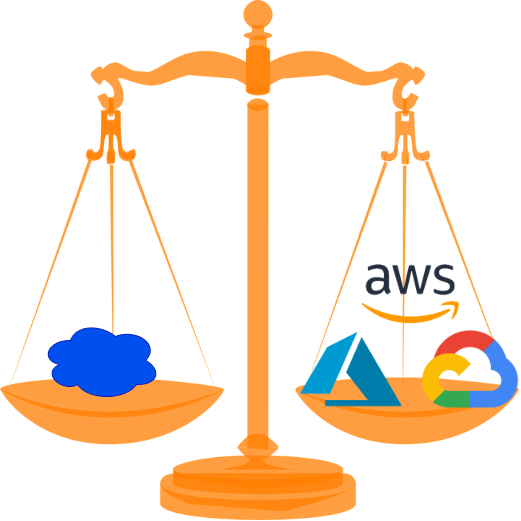
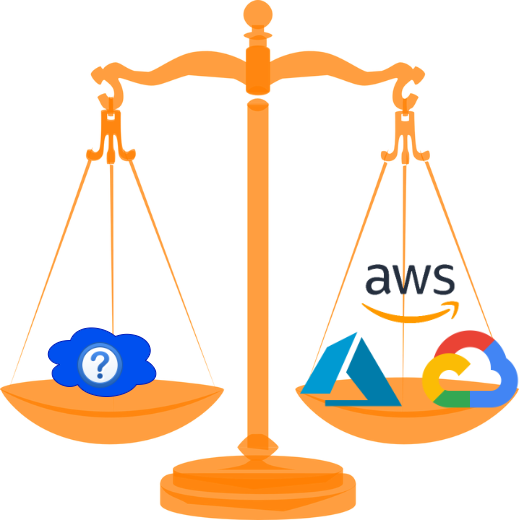
Add Proper Article Images to Home Page

Changed region(s): [[0.1228, 0.6449, 0.2457, 0.7678]]

diff --git a/index.html b/index.html
@@ -63,7 +63,7 @@ height: 100%;
       </div>
      <div class="image">
         <img
-          src="{{ site.baseurl }}/images/supported-clouds.png"
+          src="{{ site.baseurl }}/images/which_cloud_provider.png"
           alt="choice"
           class="editable"
         />
@@ -93,7 +93,7 @@ height: 100%;
       </div>
       <div class="image">
         <img
-          src="{{ site.baseurl }}/images/choices.png"
+          src="{{ site.baseurl }}/images/migrate_cloud.png"
           alt="migration"
           class="editable"
         />
@@ -106,8 +106,8 @@ height: 100%;
     <div class="container flex">
       <div class="text editable">
         <h2>
-          Can your applications be <strong>optimized</strong> to increase
-          your RoI within your chosen cloud?
+          <strong>Optimize</strong> your applications to increase
+          your RoI within your chosen cloud.
         </h2>
         <p>
           Cloud providers are incredibly innovative and their service mix is
@@ -127,7 +127,7 @@ height: 100%;
       </div>
       <div class="image">
         <img
-          src="{{ site.baseurl }}/images/optimize-cloud.png"
+          src="{{ site.baseurl }}/images/Optimize.jpeg"
           alt="migration"
           class="editable"
         />
@@ -140,8 +140,8 @@ height: 100%;
     <div class="container flex">
       <div class="text editable">
         <h2>
-          Do you require <strong>consulting services</strong> in containers,
-          cloud and big data technologies?
+          You require <strong>consulting services</strong> in containers,
+          cloud and big data technologies.
         </h2>
         <p>
           We provide North-America-based consulting services in
@@ -171,10 +171,10 @@ height: 100%;
       <div class="text editable">
         <h2>
           You want to <strong>benchmark</strong> your services against established
-          Cloud Providers?
+          Cloud Providers.
         </h2>
         <p>
-          Our expertize is field of Cloud Technologies and our 
+          Our expertize in field of Cloud Technologies and our 
           extensive knowledge accross Cloud Platform enables 
           us to empower you to compare your services with Established Cloud Providers
           in the market. Now you can perform an apples to apples comparison
